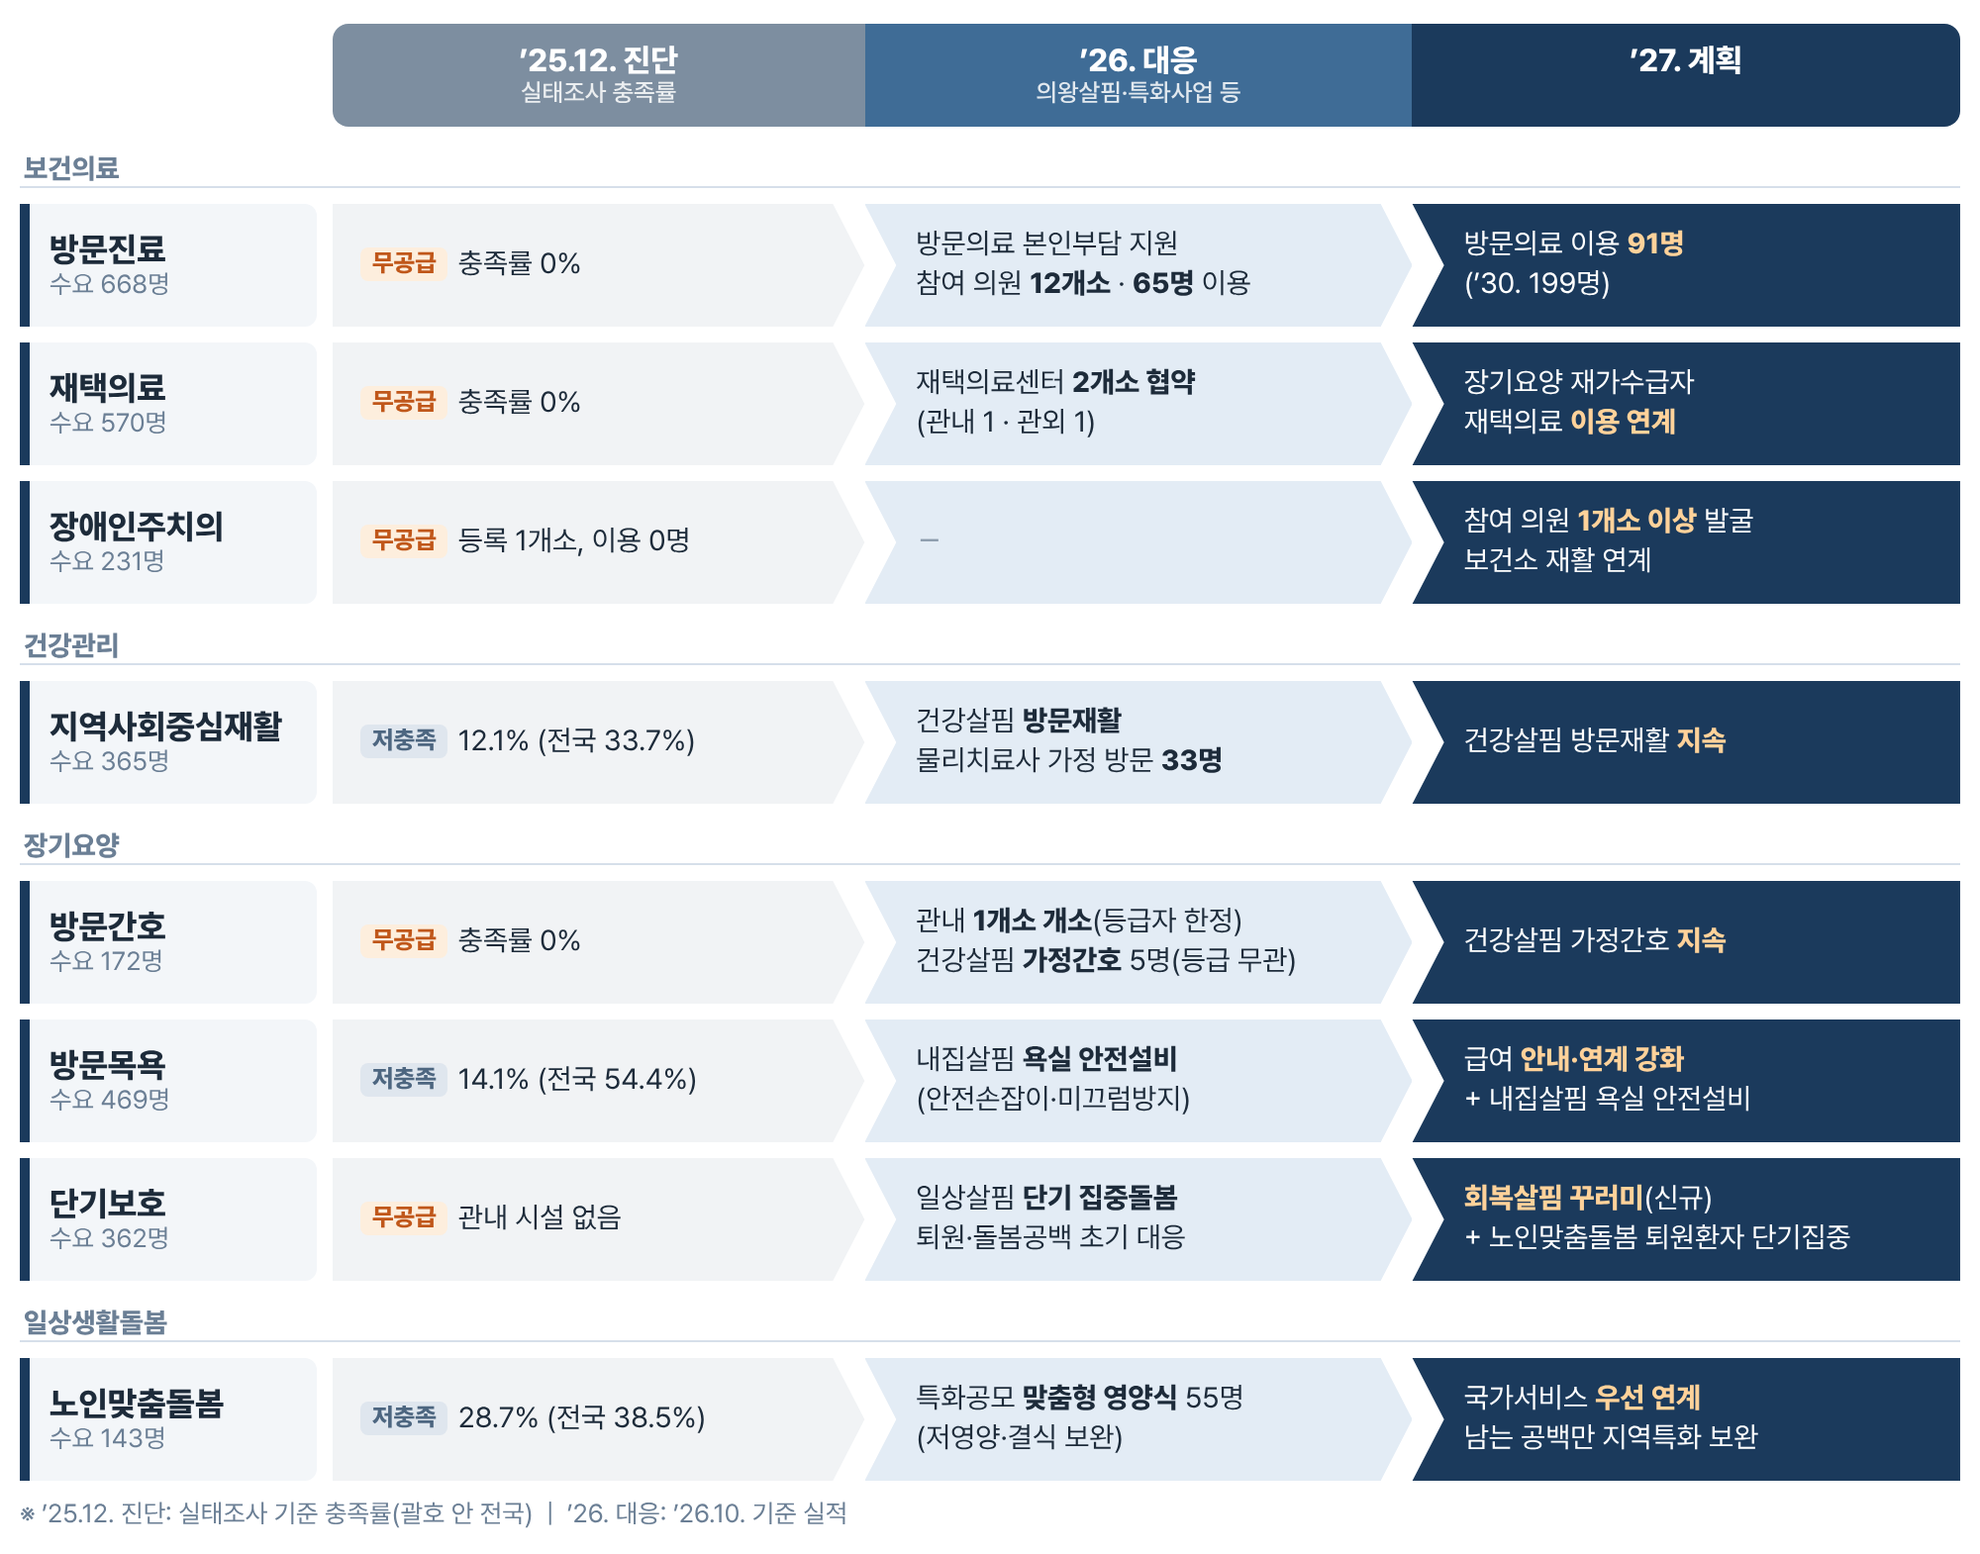
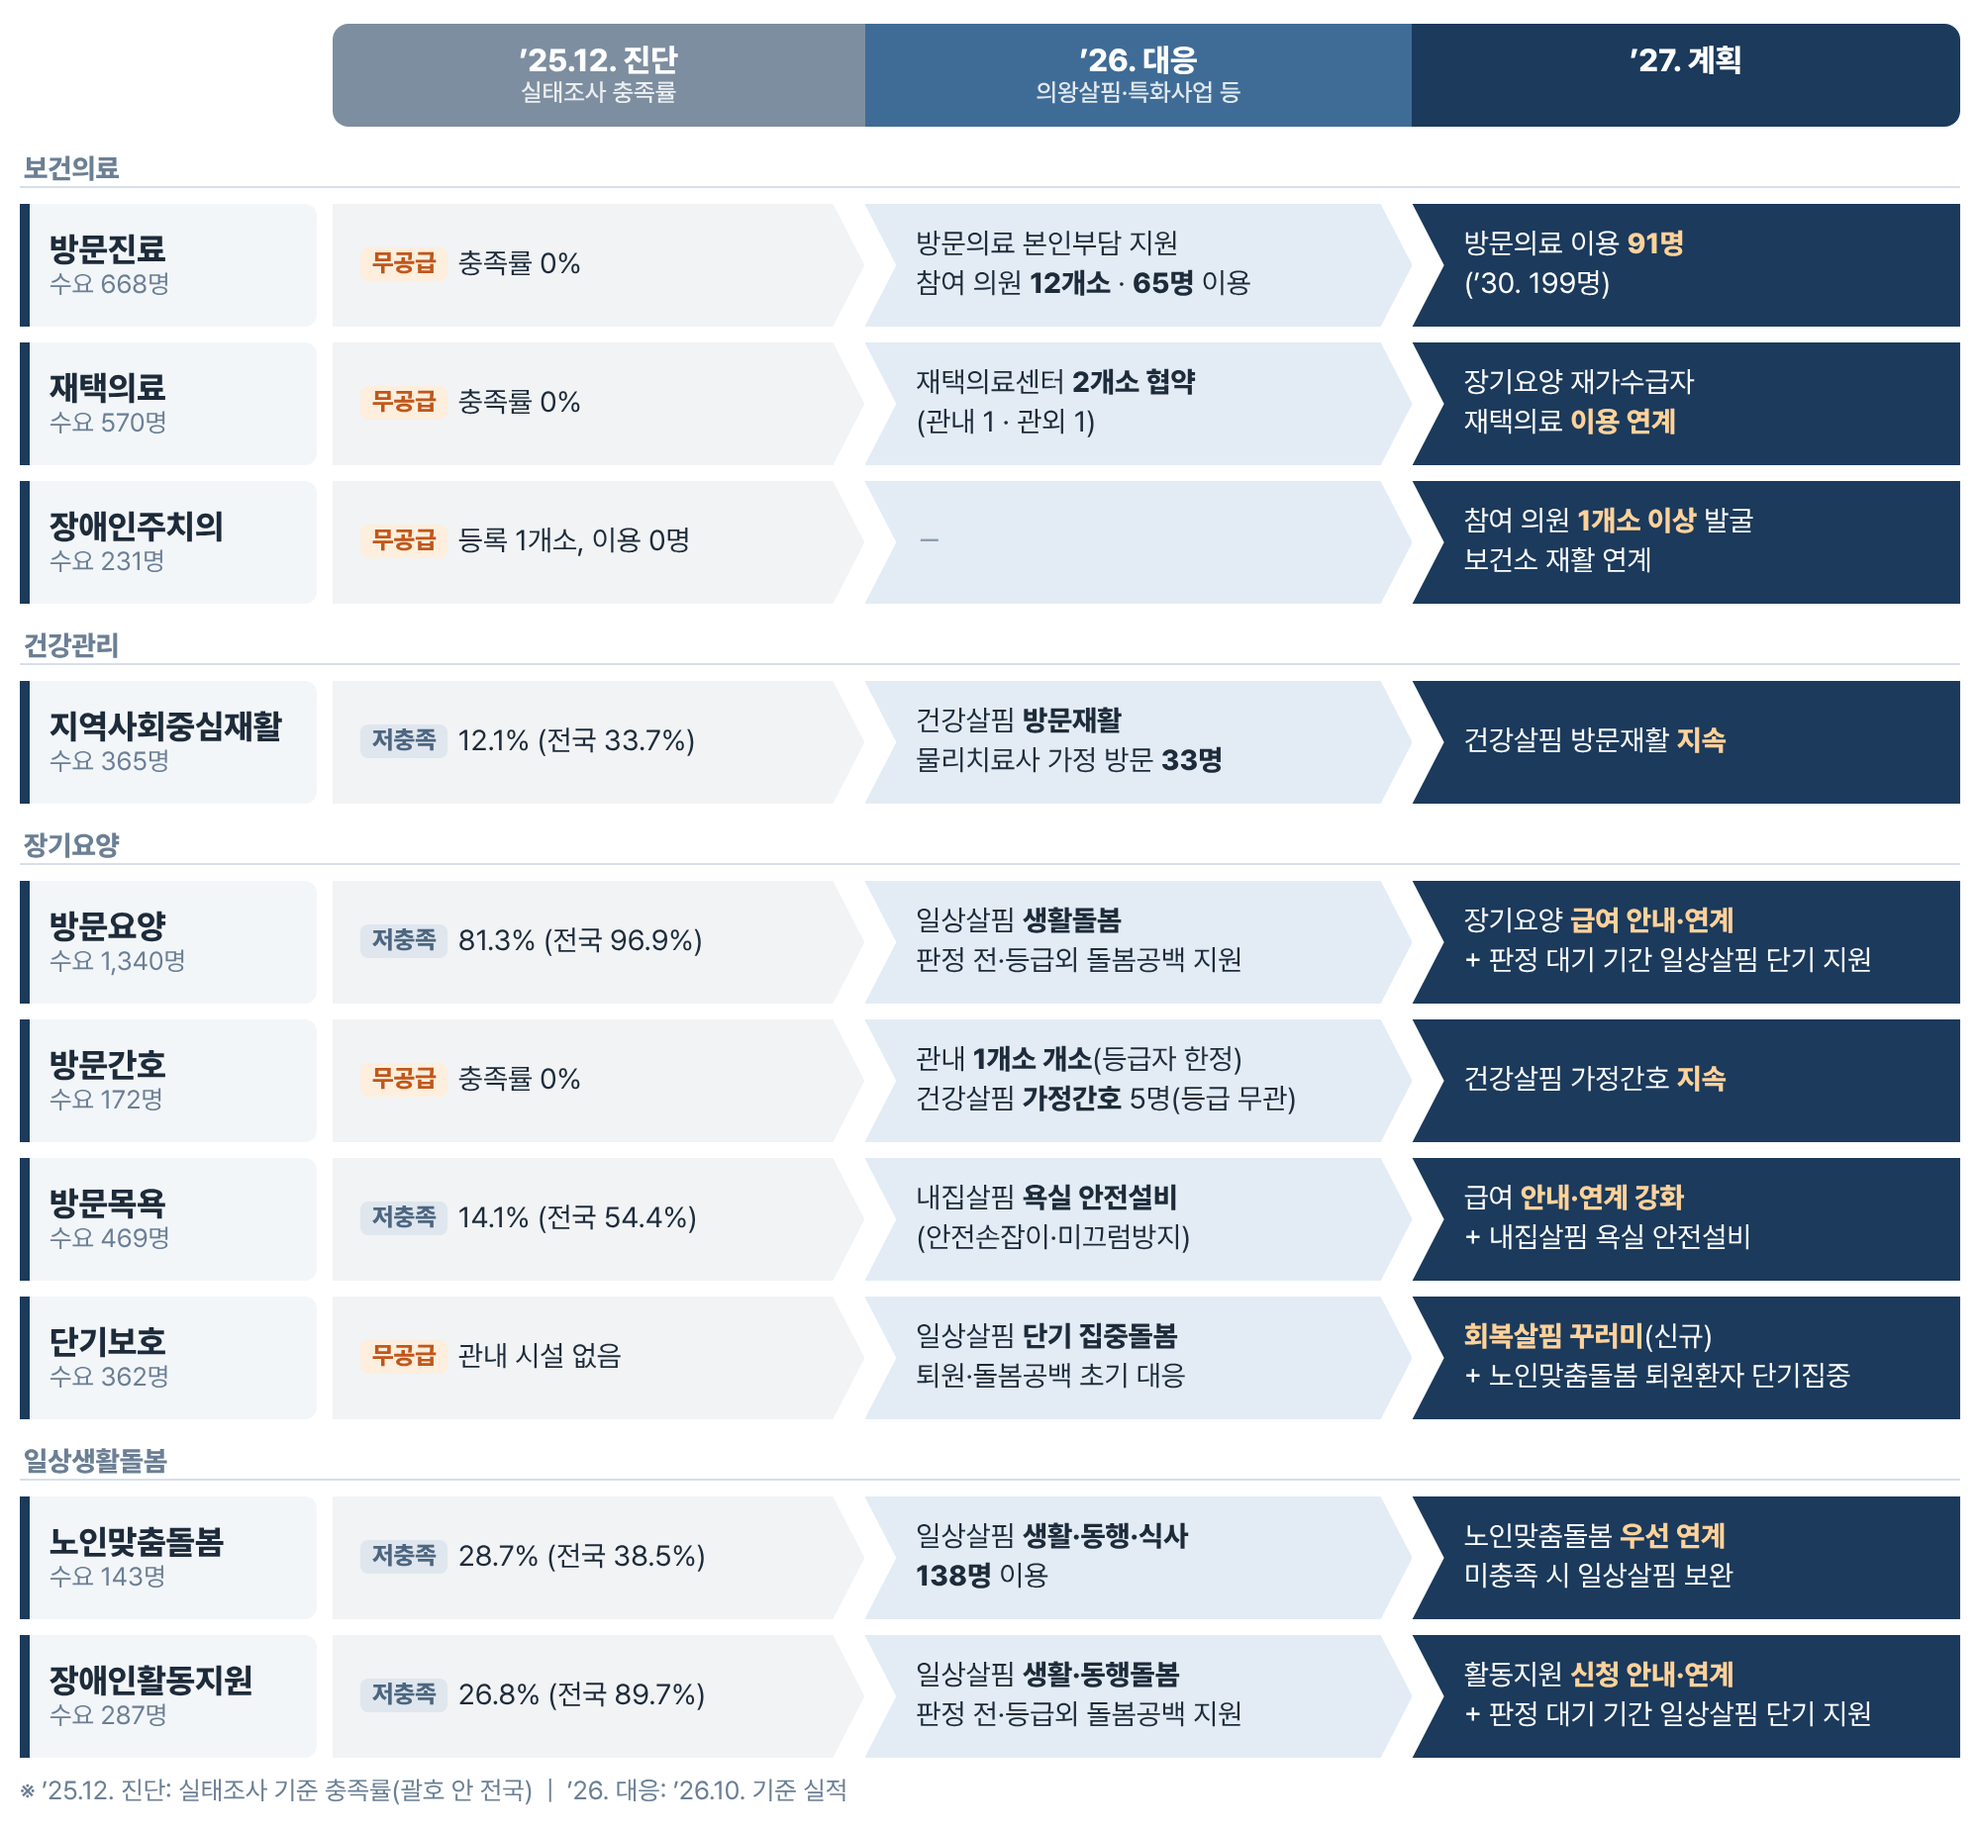
단계별 대응 그림: 방문요양·장애인활동지원 추가, 노인맞춤돌봄은 일상살핌 보완으로
Claude-Session: https://claude.ai/code/session_01Rws36rz6FMs9qvhqTvH8uK

diff --git a/docs/uiwang-2027-plan/figures/src/gap_steps.html b/docs/uiwang-2027-plan/figures/src/gap_steps.html
@@ -53,6 +53,10 @@ body{word-break:keep-all;font-family:'Pretendard',sans-serif;color:#1d2b3a;backg
   <div class="c c2"><div>건강살핌 방문재활 <b>지속</b></div></div>
 
   <div class="grp">장기요양</div>
+  <div class="sv"><b>방문요양</b><span>수요 1,340명</span></div>
+  <div class="c c0"><div><span class="chip g">저충족</span>81.3% (전국 96.9%)</div></div>
+  <div class="c c1"><div>일상살핌 <b>생활돌봄</b><br>판정 전·등급외 돌봄공백 지원</div></div>
+  <div class="c c2"><div>장기요양 <b>급여 안내·연계</b><br>+ 판정 대기 기간 일상살핌 단기 지원</div></div>
   <div class="sv"><b>방문간호</b><span>수요 172명</span></div>
   <div class="c c0"><div><span class="chip r">무공급</span>충족률 0%</div></div>
   <div class="c c1"><div>관내 <b>1개소 개소</b>(등급자 한정)<br>건강살핌 <b>가정간호</b> 5명(등급 무관)</div></div>
@@ -71,8 +75,13 @@ body{word-break:keep-all;font-family:'Pretendard',sans-serif;color:#1d2b3a;backg
   <div class="grp">일상생활돌봄</div>
   <div class="sv"><b>노인맞춤돌봄</b><span>수요 143명</span></div>
   <div class="c c0"><div><span class="chip g">저충족</span>28.7% (전국 38.5%)</div></div>
-  <div class="c c1"><div>특화공모 <b>맞춤형 영양식</b> 55명<br>(저영양·결식 보완)</div></div>
-  <div class="c c2"><div>국가서비스 <b>우선 연계</b><br>남는 공백만 지역특화 보완</div></div>
+  <div class="c c1"><div>일상살핌 <b>생활·동행·식사</b><br><b>138명</b> 이용</div></div>
+  <div class="c c2"><div>노인맞춤돌봄 <b>우선 연계</b><br>미충족 시 일상살핌 보완</div></div>
+
+  <div class="sv"><b>장애인활동지원</b><span>수요 287명</span></div>
+  <div class="c c0"><div><span class="chip g">저충족</span>26.8% (전국 89.7%)</div></div>
+  <div class="c c1"><div>일상살핌 <b>생활·동행돌봄</b><br>판정 전·등급외 돌봄공백 지원</div></div>
+  <div class="c c2"><div>활동지원 <b>신청 안내·연계</b><br>+ 판정 대기 기간 일상살핌 단기 지원</div></div>
 </div>
 <div class="foot">※ ’25.12. 진단: 실태조사 기준 충족률(괄호 안 전국) &nbsp;|&nbsp; ’26. 대응: ’26.10. 기준 실적</div>
 </body></html>
